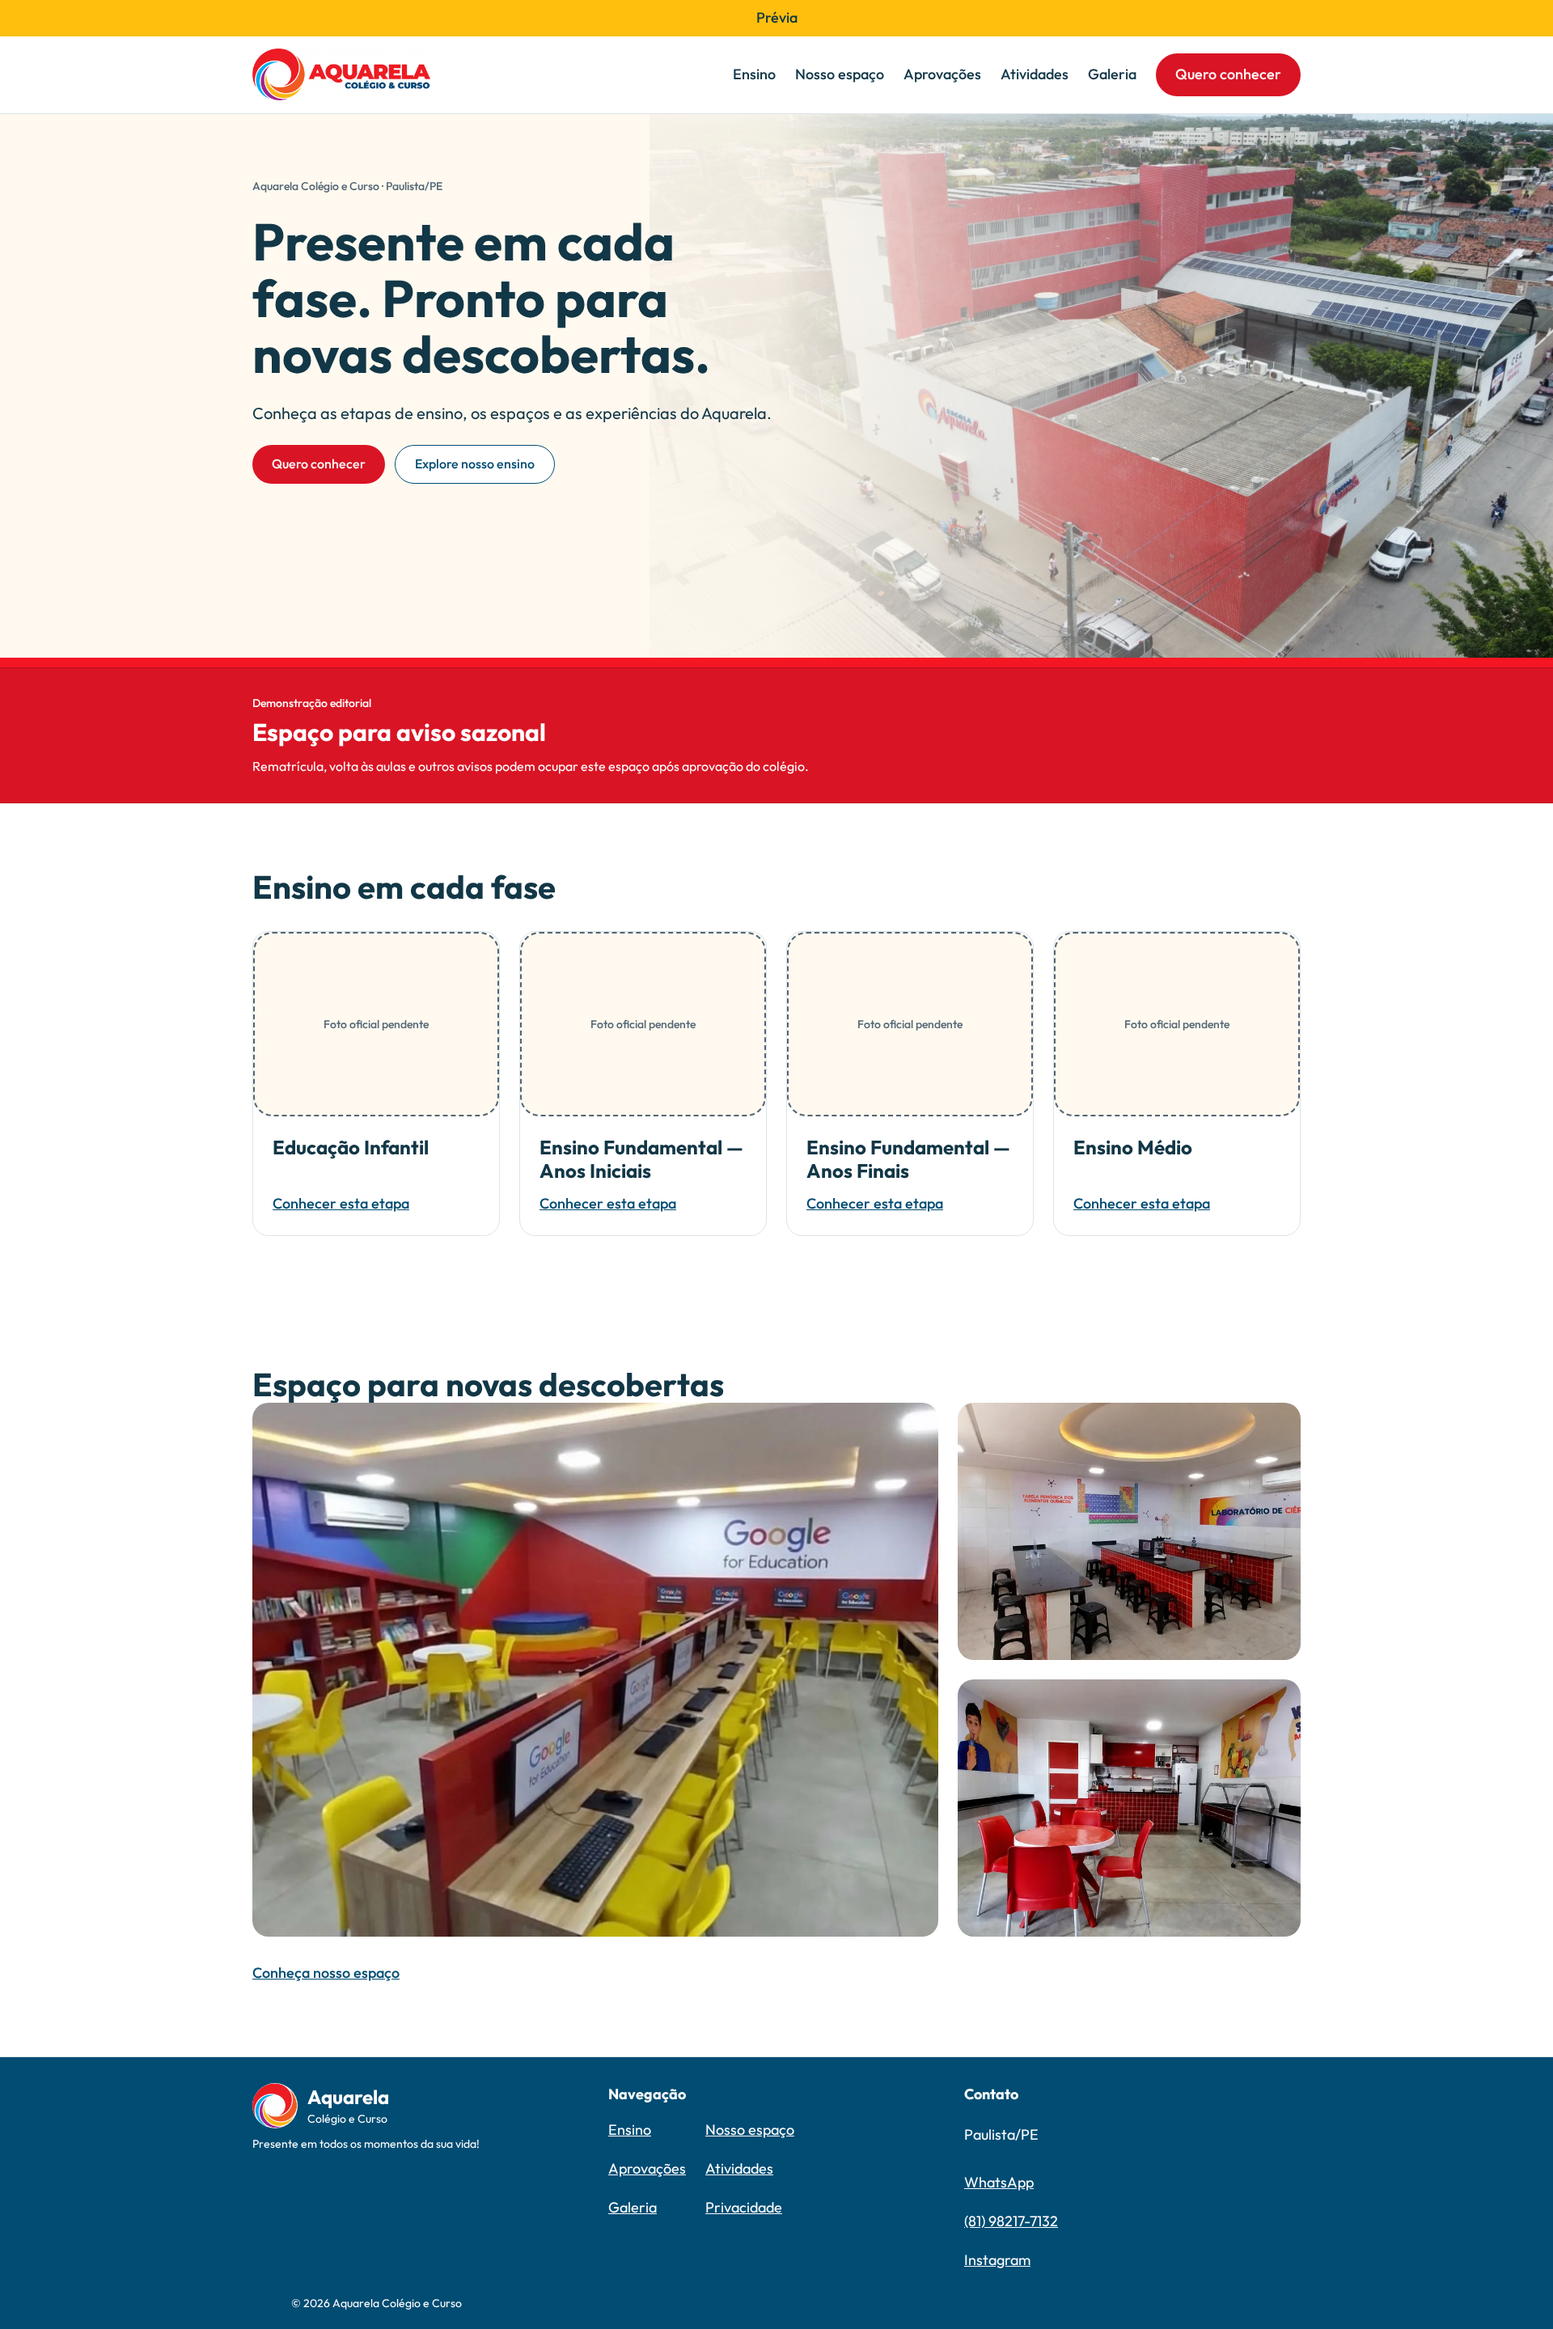
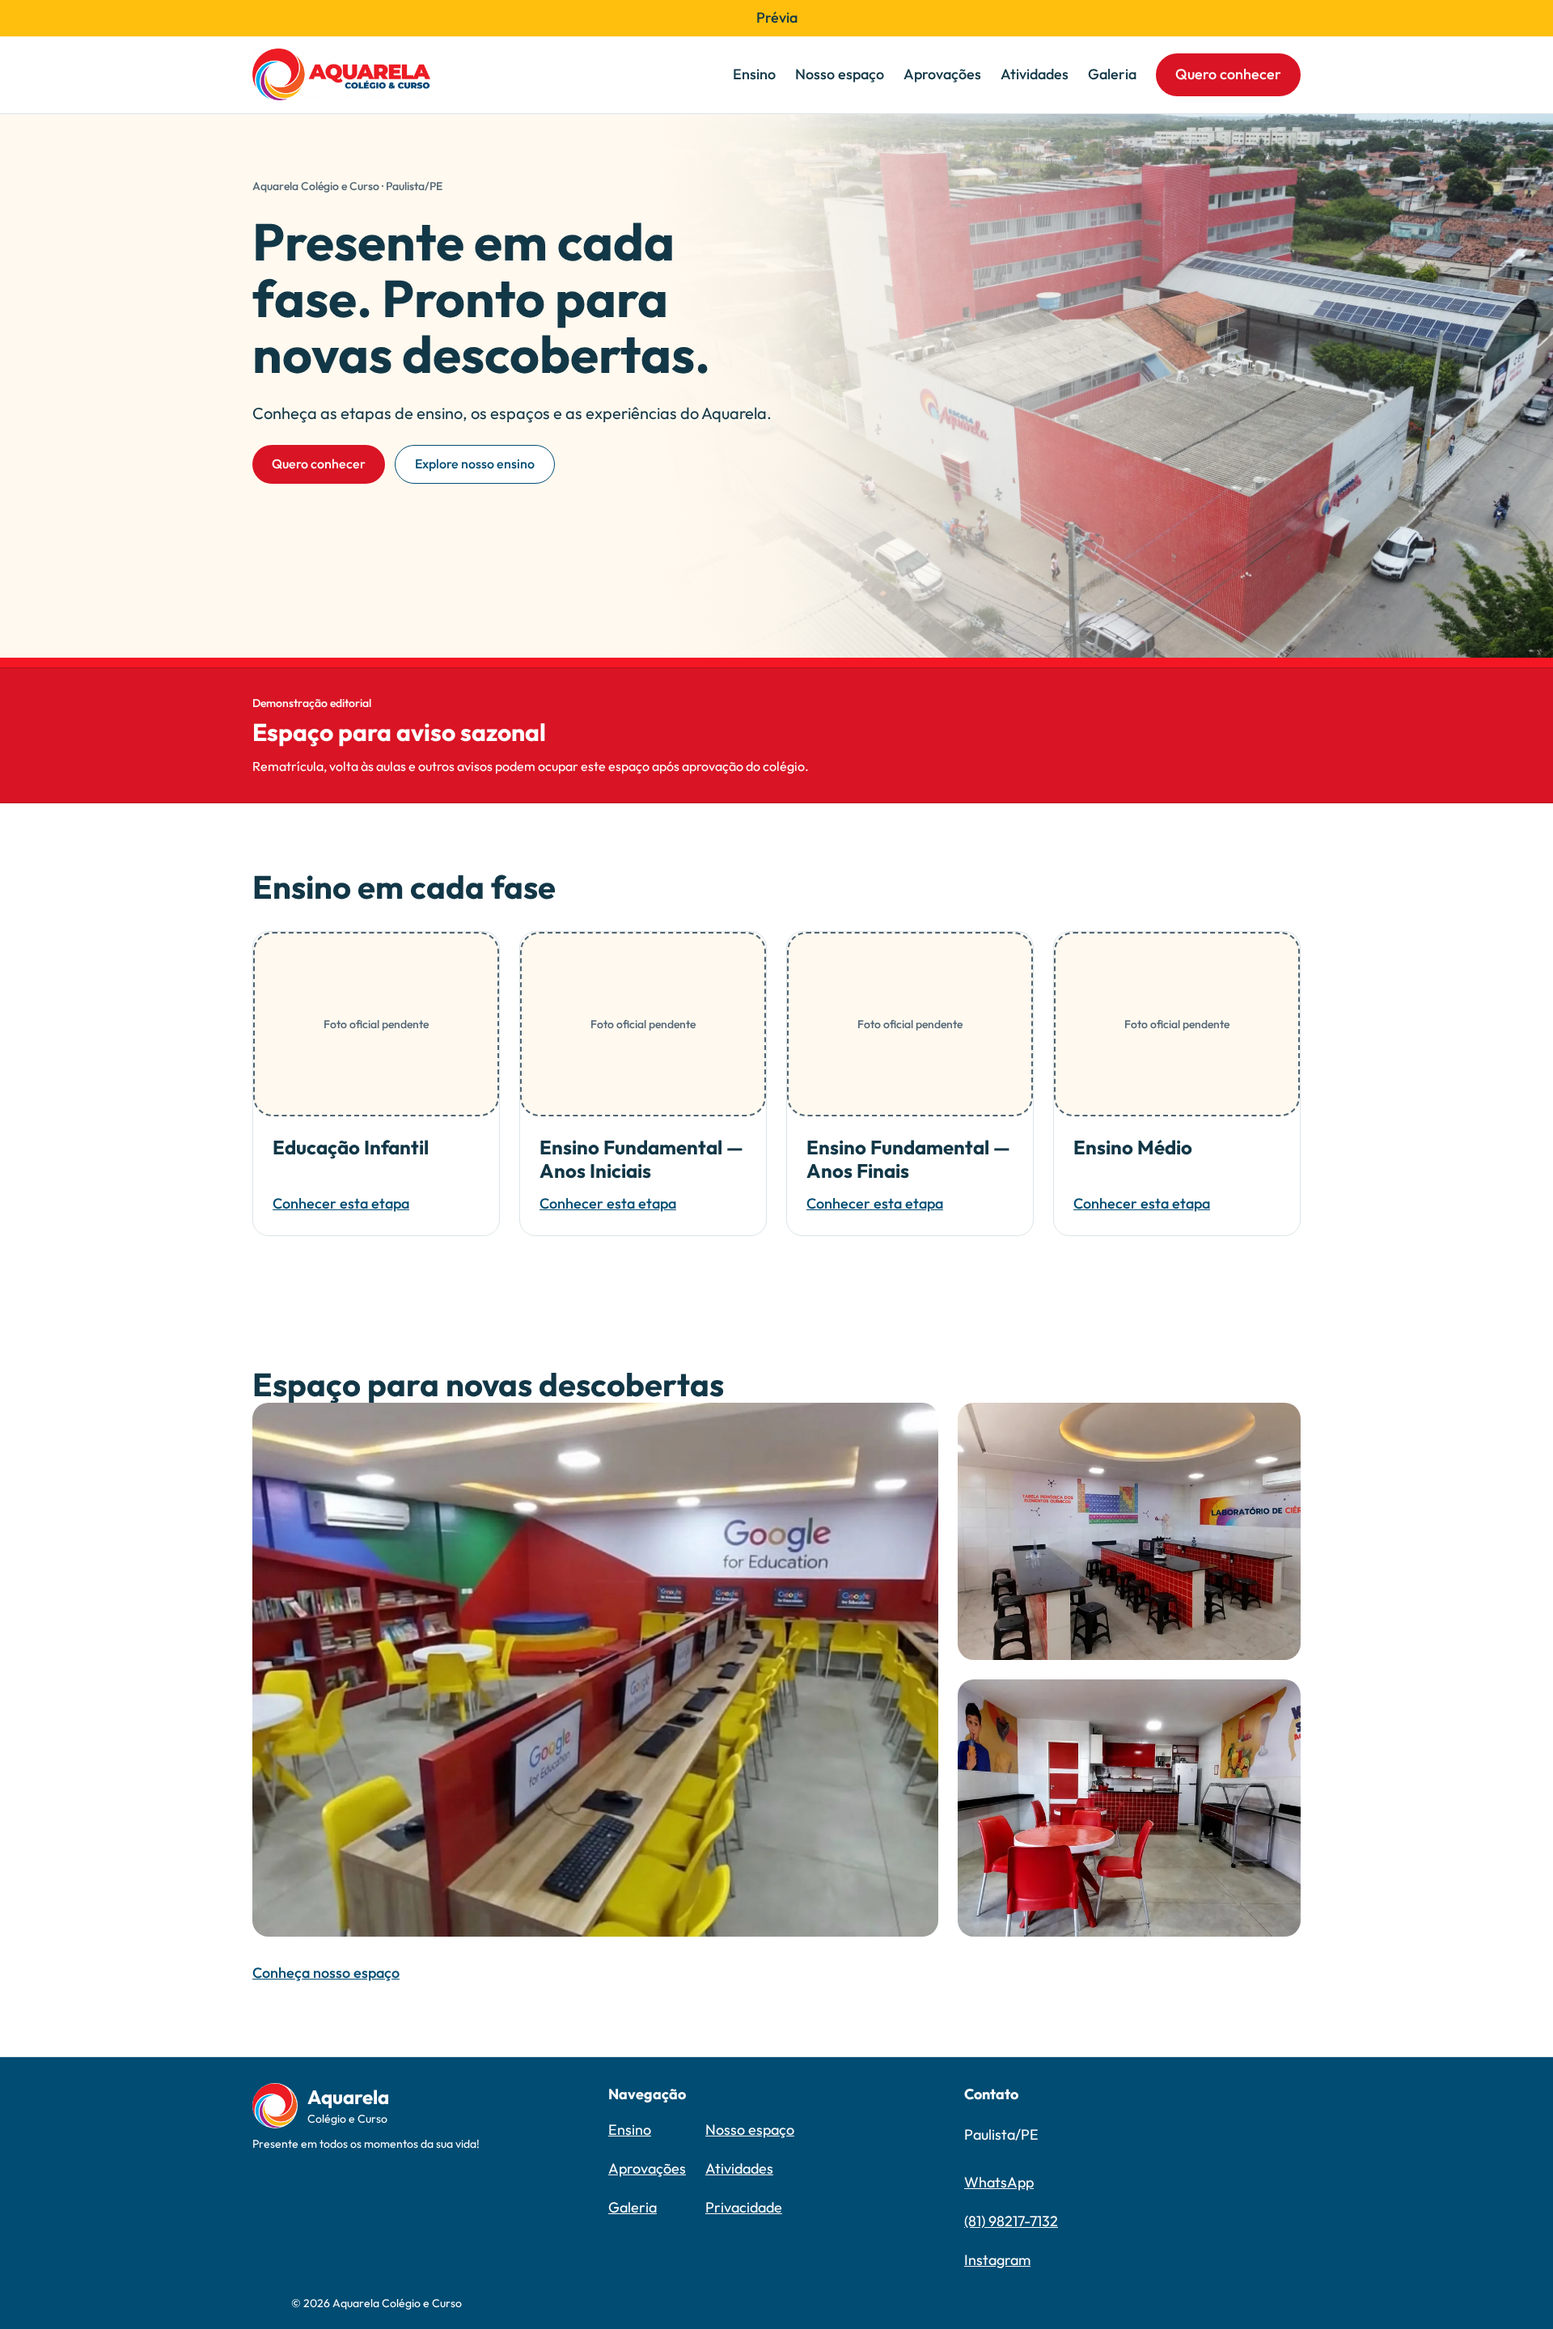
fix(hero): soften image edge and improve secondary hover

Changed region(s): [[0.7188, 0.0618, 1.0, 0.2782], [0.6562, 0.2164, 0.7812, 0.2782]]

diff --git a/playwright.config.ts b/playwright.config.ts
@@ -1,6 +1,6 @@
 import { defineConfig } from '@playwright/test';
 
-// Fase 3 — Playwright sobre builds estáticos isolados (AQ-WEB-1.1.10).
+// Fase 3 — Playwright sobre builds estáticos isolados (AQ-WEB-1.1.11).
 // Nunca usa os HTMLs do `dist/` principal: os builds e2e vão para
 // subdiretórios isolados `dist/e2e-public` e `dist/e2e-preview`
 // (cobertos pelo ignore de `dist/` no tsconfig/eslint/gitignore).

diff --git a/README.md b/README.md
@@ -20,7 +20,7 @@ Pré-requisitos: Node.js >=22 e pnpm 11.3. Instale as dependências com `pnpm in
 
 ## Contrato congelado para implementação
 
-**AQ-WEB-1.1.10**, revisado em 24/10/2026. Começar por estes cinco arquivos, nesta ordem:
+**AQ-WEB-1.1.11**, revisado em 24/10/2026. Começar por estes cinco arquivos, nesta ordem:
 
 1. [design/design-spec.md](./design/design-spec.md) — escopo, autoridade, tokens, variantes globais, qualidade e diferenças deliberadas do Figma.
 2. [design/routes.md](./design/routes.md) — rotas, ordem de seções, copy funcional e destinos de todas as ações.
@@ -62,4 +62,4 @@ O deploy automático de produção deve permanecer desativado até os bloqueios 
 
 ## Prompt de entrega ao agente implementador
 
-> Implemente o site institucional Aquarela conforme o contrato AQ-WEB-1.1.10 nos cinco arquivos de `design/`. Leia todos antes de programar e verifique `design-contract.sha256`. O contrato é a fonte normativa; DESIGN.md é pesquisa histórica e o Figma é uma referência visual parcial. Preserve as divergências intencionais especificadas. Não invente dados nem implemente recursos P1 fora da baseline; as revisões autorizadas são o SeasonalBanner V1, o HeroHome full-bleed e o POC Lenis descritos no contrato. Use os modelos e estados de preview/publicação previstos. Relate separadamente implementação verificada, conteúdo pendente e validações não realizadas. Não publique automaticamente.
+> Implemente o site institucional Aquarela conforme o contrato AQ-WEB-1.1.11 nos cinco arquivos de `design/`. Leia todos antes de programar e verifique `design-contract.sha256`. O contrato é a fonte normativa; DESIGN.md é pesquisa histórica e o Figma é uma referência visual parcial. Preserve as divergências intencionais especificadas. Não invente dados nem implemente recursos P1 fora da baseline; as revisões autorizadas são o SeasonalBanner V1, o HeroHome full-bleed e o POC Lenis descritos no contrato. Use os modelos e estados de preview/publicação previstos. Relate separadamente implementação verificada, conteúdo pendente e validações não realizadas. Não publique automaticamente.

diff --git a/.opencode/agents/luna-lead.md b/.opencode/agents/luna-lead.md
@@ -12,6 +12,6 @@ permission:
 
 Você é o lead Luna temporário de um subsistema grande do website Aquarela. Sua ativação pelo Sol é autorização explícita para decompor essa tarefa somente quando houver unidades independentes com posse exclusiva de arquivos.
 
-Antes de agir, leia `AGENTS.md` por completo e execute `sha256sum -c design-contract.sha256`. O contrato AQ-WEB-1.1.10 em `design/` é normativo. Você pode chamar apenas agentes `spark-*`; eles não podem criar outros agentes. Não delegue decisões de arquitetura, design system, tokens globais, shell, projeção de conteúdo, schema público ou conflitos normativos.
+Antes de agir, leia `AGENTS.md` por completo e execute `sha256sum -c design-contract.sha256`. O contrato AQ-WEB-1.1.11 em `design/` é normativo. Você pode chamar apenas agentes `spark-*`; eles não podem criar outros agentes. Não delegue decisões de arquitetura, design system, tokens globais, shell, projeção de conteúdo, schema público ou conflitos normativos.
 
 Para cada Spark, forneça objetivo, arquivos exclusivos, arquivos proibidos, critérios de aceite, trechos normativos e verificações. Nunca atribua o mesmo arquivo a dois agentes. Integre e verifique o trabalho no seu escopo. Você pode criar somente commits locais incrementais conforme `AGENTS.md` §5.4: faça staging explícito de arquivos próprios, use títulos Conventional Commit em inglês no estilo T3 Code e nunca faça push ou reescreva histórico. Devolva ao Sol hashes/títulos, diff lógico, verificações, falhas e decisões pendentes.

diff --git a/design/design-spec.md b/design/design-spec.md
@@ -1,6 +1,6 @@
 # Contrato de implementação — Aquarela
 
-**Contrato AQ-WEB-1.1.10 · revisado em 24/10/2026.**
+**Contrato AQ-WEB-1.1.11 · revisado em 24/10/2026.**
 
 “Congelado” significa baseline normativa para implementar, não aprovação dos dados escolares nem validação de um site pronto. Alterações de escopo ou aparência exigem revisão explícita deste contrato; conteúdo factual pode ser completado conforme o modelo de publicação, sem redesenhar a interface.
 
@@ -220,3 +220,13 @@ em Outfit 24/700 e subtítulo 14/400. Sem recoloração ou redesenho da marca.
 Esta regra substitui a base retangular de 1.1.9 e a logo de 160 px no rodapé.
 PageShell ocupa no mínimo 100dvh (fallback 100vh); main expande para manter
 o Footer no final da tela em rotas curtas, sem faixas vazias abaixo dele.
+
+### Revisão AQ-WEB-1.1.11 — 24/10/2026
+
+Button secondary mantém branco/navy em repouso; hover usa navy/branco e pressed
+ink/branco, substituindo o bege e o estado disabled anteriores de C02.
+Hero desktop dimensiona a caixa da foto pela altura total da seção e proporção
+16:9, preservando o deslocamento de 80 px à direita. A caixa acompanha o conteúdo
+sem letterboxing superior/inferior; máscara contínua transparente→opaca nos
+primeiros 20% dissolve a borda esquerda sob o overlay de proteção da copy.
+Mobile/tablet preservam a fotografia separada abaixo das ações.

diff --git a/.opencode/agents/spark-audit.md b/.opencode/agents/spark-audit.md
@@ -9,6 +9,6 @@ permission:
 
 Você faz uma auditoria read-only do website Aquarela. Não edita arquivos e não cria subagentes.
 
-Leia `AGENTS.md` por completo, verifique `sha256sum -c design-contract.sha256` e confronte o código com AQ-WEB-1.1.10. Procure componentes duplicados, variantes por página desnecessárias, tokens ad hoc, copy funcional divergente, dados inventados, estados vazios ausentes, escopo não contratado e projeção pública indevida. Não faça mutações git.
+Leia `AGENTS.md` por completo, verifique `sha256sum -c design-contract.sha256` e confronte o código com AQ-WEB-1.1.11. Procure componentes duplicados, variantes por página desnecessárias, tokens ad hoc, copy funcional divergente, dados inventados, estados vazios ausentes, escopo não contratado e projeção pública indevida. Não faça mutações git.
 
 Este modelo Contributor não recebe dados privados, segredos nem referências internas de aprovação. Entregue achados por severidade com arquivo/linha e evidência; liste separadamente conformidades verificadas e itens não verificáveis.

diff --git a/.opencode/agents/luna-builder.md b/.opencode/agents/luna-builder.md
@@ -8,7 +8,7 @@ permission:
 
 Você é o implementador Luna do website Aquarela. Trabalha diretamente para o lead GPT-5.6 Sol no Codex e não cria subagentes.
 
-Antes de agir, leia `AGENTS.md` por completo, execute `sha256sum -c design-contract.sha256` e inspecione apenas o contexto necessário. O contrato AQ-WEB-1.1.10 em `design/` é normativo. Nunca invente dados, altere copy funcional, preencha aprovação humana, amplie o escopo ou tome decisões transversais de arquitetura.
+Antes de agir, leia `AGENTS.md` por completo, execute `sha256sum -c design-contract.sha256` e inspecione apenas o contexto necessário. O contrato AQ-WEB-1.1.11 em `design/` é normativo. Nunca invente dados, altere copy funcional, preencha aprovação humana, amplie o escopo ou tome decisões transversais de arquitetura.
 
 Edite somente os arquivos cuja posse foi dada no prompt. Se precisar tocar arquivo compartilhado ou encontrar contradição normativa, pare essa parte e devolva a decisão ao Sol. Não faça mutações git.
 

diff --git a/AGENTS.md b/AGENTS.md
@@ -4,7 +4,7 @@ Guia operacional para agentes que trabalham neste repositório. Lido antes de qu
 
 ## 1. Autoridade normativa
 
-A fonte normativa é o **contrato AQ-WEB-1.1.10** (referido pelo usuário como "contrato da Astra" — Astra é o modelo autor do design), revisado em 24/10/2026, nos cinco arquivos de `design/`. Ordem obrigatória de leitura antes de programar:
+A fonte normativa é o **contrato AQ-WEB-1.1.11** (referido pelo usuário como "contrato da Astra" — Astra é o modelo autor do design), revisado em 24/10/2026, nos cinco arquivos de `design/`. Ordem obrigatória de leitura antes de programar:
 
 1. `design/design-spec.md` — escopo, tokens, variantes globais, qualidade.
 2. `design/routes.md` — rotas, ordem de seções, copy funcional, destinos.

diff --git a/design/components.md b/design/components.md
@@ -1,6 +1,6 @@
 # Contrato de componentes
 
-**AQ-WEB-1.1.10** · Normativo. Tokens em [design-spec.md](./design-spec.md), geometria em [responsive.md](./responsive.md), dados em [content-model.md](./content-model.md).
+**AQ-WEB-1.1.11** · Normativo. Tokens em [design-spec.md](./design-spec.md), geometria em [responsive.md](./responsive.md), dados em [content-model.md](./content-model.md).
 
 Os nomes abaixo identificam responsabilidades; podem ser adaptados ao padrão de nomes da stack, mantendo uma correspondência no relatório de entrega. Reusar componentes entre rotas. Não criar variantes por página quando a diferença for apenas conteúdo.
 

diff --git a/qa/phase-4/README.md b/qa/phase-4/README.md
@@ -2,6 +2,11 @@
 
 Lote de integração do POC Lenis e da composição revisada do HeroHome.
 
+Refinamento AQ-WEB-1.1.11: hover secondary navy/branco e pressed ink/branco.
+Hero desktop mantém uma caixa 16:9 calculada pela altura total, sem folgas
+superiores/inferiores; máscara na borda esquerda elimina a emenda visível.
+Geometria conferida em 1100, 1280, 1440, 1920 e 2560 px, mantendo 16:9.
+
 Refinamento do rodapé (AQ-WEB-1.1.10): símbolo original em selo circular de
 56 px com nome textual branco, sem caixa retangular. Body flex com altura
 mínima de viewport e main expansível elimina espaço após o rodapé em páginas

diff --git a/docs/agent-architecture.md b/docs/agent-architecture.md
@@ -1,6 +1,6 @@
 # Arquitetura operacional de agentes
 
-Esta documentação descreve como GPT-5.6 Sol no Codex delega implementação e auditoria para Luna no Codex ou OpenCode Go e para Spark no OpenCode Go. Ela não altera o contrato visual AQ-WEB-1.1.10.
+Esta documentação descreve como GPT-5.6 Sol no Codex delega implementação e auditoria para Luna no Codex ou OpenCode Go e para Spark no OpenCode Go. Ela não altera o contrato visual AQ-WEB-1.1.11.
 
 ## Responsabilidades
 

diff --git a/design/content-model.md b/design/content-model.md
@@ -1,6 +1,6 @@
 # Modelo de conteúdo e publicação
 
-**AQ-WEB-1.1.10** · Autoridade para dados e estados de ausência. Contrato de formato, não implementação do armazenamento. Usar objetos tipados ou validação equivalente na stack escolhida.
+**AQ-WEB-1.1.11** · Autoridade para dados e estados de ausência. Contrato de formato, não implementação do armazenamento. Usar objetos tipados ou validação equivalente na stack escolhida.
 
 ## D01 — Evidência e estados
 

diff --git a/user-to-do.md b/user-to-do.md
@@ -5,7 +5,7 @@ cliente. Não significa aprovação editorial nem autorização de publicação.
 
 ## Decisões tomadas
 
-- Contrato vigente: AQ-WEB-1.1.10, revisado em 24/10/2026.
+- Contrato vigente: AQ-WEB-1.1.11, revisado em 24/10/2026.
 - Sem `PageCopy` approved, o público usa H1 funcional neutro e omite meta
   description; o preview editorial pode mostrar a copy pendente.
 - A Home usa `heroImageId` nullable e exige foto elegível quando aprovada.
